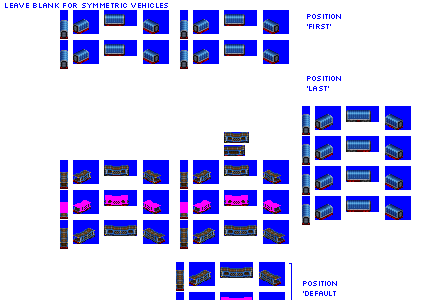
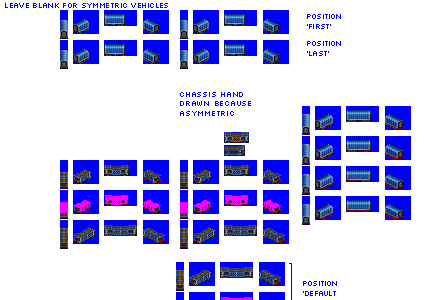
Change: split gen 4 double deck enclosed automobile cars out from motorail cars; improve sprites for gen 5D double deck enclosed automobile car

diff --git a/src/vehicles/pony/double_deck_enclosed_automobile_cars_pony.py b/src/vehicles/pony/double_deck_enclosed_automobile_cars_pony.py
@@ -6,6 +6,57 @@ def main(**kwargs):
 
     # --------------- standard gauge ---------------------------------------------------------------    # intro gen 4
 
+
+    model_def = ModelDef(
+        schema_name="AutomobileDoubleDeckEnclosedCar",
+        base_numeric_id=31270,
+        gen=4,
+        subtype="B",
+        sprites_complete=True,
+    )
+
+    model_def.add_unit_def(
+        unit_cls_name="ExpressCarUnit", chassis="4_axle_solid_express_24px"
+    )
+
+    result.append(model_def)
+
+    model_def = ModelDef(
+        schema_name="AutomobileDoubleDeckEnclosedCar",
+        base_numeric_id=31640,
+        gen=4,
+        subtype="C",
+        sprites_complete=True,
+    )
+
+    model_def.add_unit_def(
+        unit_cls_name="ExpressCarUnit", chassis="4_axle_solid_express_32px"
+    )
+
+    result.append(model_def)
+
+    model_def = ModelDef(
+        schema_name="AutomobileDoubleDeckEnclosedCar",
+        base_numeric_id=2210,
+        gen=4,
+        subtype="D",
+        sprites_complete=True,
+    )
+
+    model_def.add_unit_def(
+        unit_cls_name="AutomobileCarAsymmetricUnit",
+        chassis="empty_20px",
+        rel_spriterow_index=0,
+    )
+
+    model_def.add_unit_def(
+        unit_cls_name="AutomobileCarAsymmetricUnit",
+        chassis="empty_20px",
+        rel_spriterow_index=1,
+    )
+
+    result.append(model_def)
+
     model_def = ModelDef(
         schema_name="AutomobileDoubleDeckEnclosedCar",
         base_numeric_id=25620,
@@ -44,13 +95,13 @@ def main(**kwargs):
 
     model_def.add_unit_def(
         unit_cls_name="AutomobileCarAsymmetricUnit",
-        chassis="2_axle_1cc_filled_20px",
+        chassis="empty_20px",
         rel_spriterow_index=0,
     )
 
     model_def.add_unit_def(
         unit_cls_name="AutomobileCarAsymmetricUnit",
-        chassis="2_axle_1cc_filled_20px",
+        chassis="empty_20px",
         rel_spriterow_index=1,
     )
 

diff --git a/src/rosters/pony.py b/src/rosters/pony.py
@@ -1169,10 +1169,11 @@ def main():
             "gen_5_and_6_motorail_liveries": [
                 ("FRUIT_RIPPLE", 0),
                 ("SURE_PACE", 1),
-                ("STOCK_STANDARD", 2),
+                ("VINYL_VECTOR", 2), # CABBAGE - WAS STOCK_STANDARD
                 ("VAPID_VOYAGER", 3),
-                ("MAIL_BY_RAIL_ALT", 4),
-                ("MAIL_BY_RAIL", 5),
+                ("LOWER_LINES", 4), # CABBAGE
+                ("MAIL_BY_RAIL_ALT", 5),
+                ("MAIL_BY_RAIL", 6),
             ],
         },
         engine_module_names=engine_module_names,

diff --git a/src/vehicles/pony/mail_cars_randomised_pony.py b/src/vehicles/pony/mail_cars_randomised_pony.py
@@ -141,13 +141,13 @@ def main(**kwargs):
     )
 
     result.append(model_def)
-
+    """
     model_def = ModelDef(
         schema_name="MailCarRandomised",
         base_numeric_id=31620,
         gen=5,
         subtype="C",
-        #livery_group_name="gen_5_and_6_mail_liveries",  # override default liveries from gestalt
+        livery_group_name="gen_5_and_6_mail_liveries",  # override default liveries from gestalt
         sprites_complete=True,
     )
 
@@ -156,5 +156,5 @@ def main(**kwargs):
     )
 
     result.append(model_def)
-    """
+
     return result

diff --git a/src/train/schemas.py b/src/train/schemas.py
@@ -2754,8 +2754,10 @@ class AutomobileDoubleDeckEnclosedCar(AutomobileCarBase):
         # Graphics configuration
         if self.subtype == "D":
             formation_ruleset = "articulated_permanent_twin_sets"
-        else:
+        elif self.gen == 5:
             formation_ruleset = "max_4_unit_sets"
+        else:
+            formation_ruleset = "max_1_unit_sets"
         self.gestalt_graphics = GestaltGraphicsAutomobilesTransporter(
             # layers for spritelayer cargos - this is nerfed off for enclosed cars, no visible cargo
             spritelayer_cargo_layers=[],